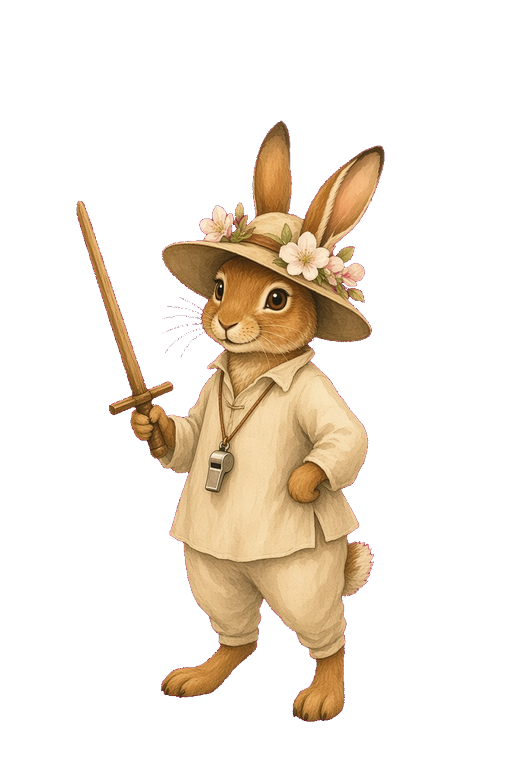
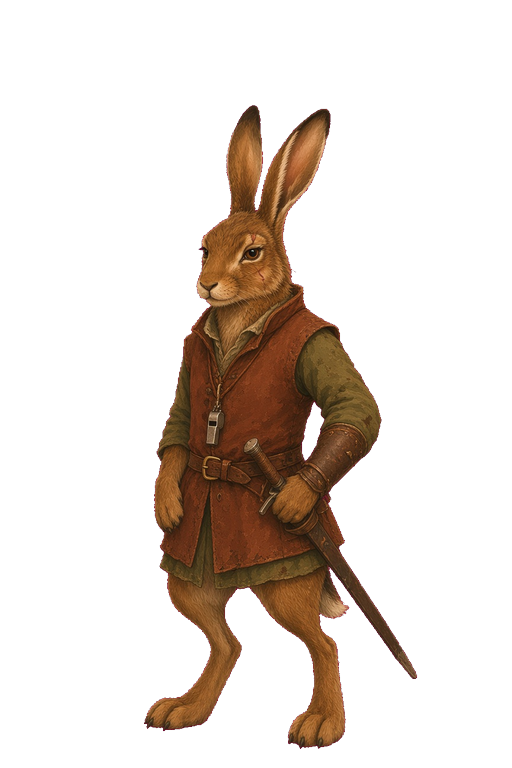
Repaint Instructor Flint as a grizzled veteran hare, not a nursery bunny.

Changed region(s): [[0.125, 0.125, 0.8125, 1.0]]

diff --git a/docs/context/CURRENT.md b/docs/context/CURRENT.md
@@ -7,7 +7,7 @@ Read this file first on a new machine or in a new Cursor chat. Then open the lat
 - **Release target:** v0.0 foundation (twenty-five rooms, look, movement, travel, presence, say, inventory, combat, Ember, Arrival)
 - **Shipped slices:** DS-001 semantic colour (ADR-0028), DS-002 play shell (ADR-0030), DS-003 world-map fog (ADR-0031), DS-004 painted catalog (ADR-0032), DS-005 lobby travel (ADR-0033). Typed commands stay canonical.
 - **Active follow-up:** confirm the live Render deploy. Do not start a new interface sprint unless the owner names it.
-- **Local art pass:** `/?builder=1`, `/?rooms=1`, `/?shell=1` (lobby opens first; Enter play, then Lobby in the header).
+- **Local art pass:** `/?builder=1`, `/?rooms=1`, `/?shell=1` (lobby opens first; Enter play, then Lobby in the header). Instructor Flint is a veteran hare, not a nursery bunny.
 - **Public repo:** https://github.com/thejohnhawkwood/greenwood-collegium
 - **Render public hostname:** https://greenwood-collegium.onrender.com (no connection strings in this file)
 

diff --git a/docs/devlog/2026-09-16-flint-redwall.md b/docs/devlog/2026-09-16-flint-redwall.md
@@ -1,0 +1,17 @@
+# 2026-09-16 — Instructor Flint, veteran hare
+
+## Intent
+Replace the Beatrix Potter nursery bunny plate with a grizzled Redwall-leaning
+hare so Flint reads as a drill instructor.
+
+## Machine
+Desktop.
+
+## What changed
+- New `npc-instructor-flint.png`: scarred adult hare, leather jerkin, nicked
+  blade, whistle on a cord. Magenta punched to 512×768.
+- Look and examine text no longer mention apple-blossom hats or cheerful
+  nursery clothes.
+
+## Next
+Human confirm the live South Orchard after Render finishes.

diff --git a/docs/devlog/README.md b/docs/devlog/README.md
@@ -33,6 +33,7 @@ Unresolved risks. Do not hide confusion.
 
 ## Entries
 
+- [2026-09-16 — Instructor Flint, veteran hare](2026-09-16-flint-redwall.md)
 - [2026-09-16 — Semantic colour close-out and lobby travel](2026-09-16-lobby-and-colour.md)
 - [2026-09-16 — Play-shell tokens and Collegian chrome](2026-09-16-play-shell-tokens.md)
 - [2026-09-16 — Finished Collegium room plates](2026-09-16-room-plates.md)
